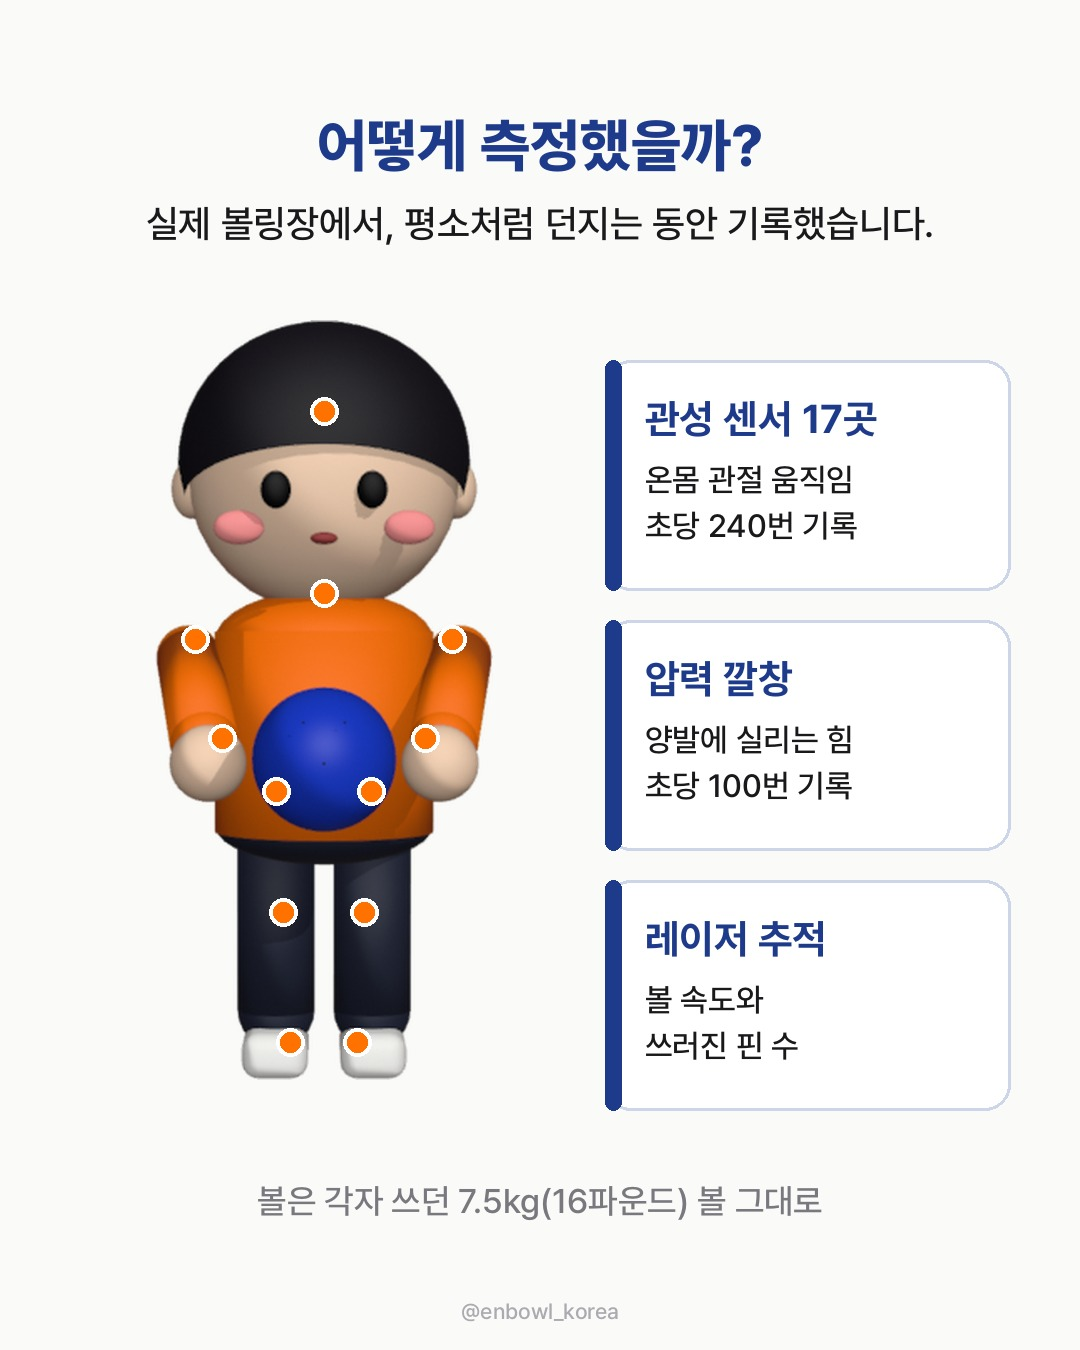
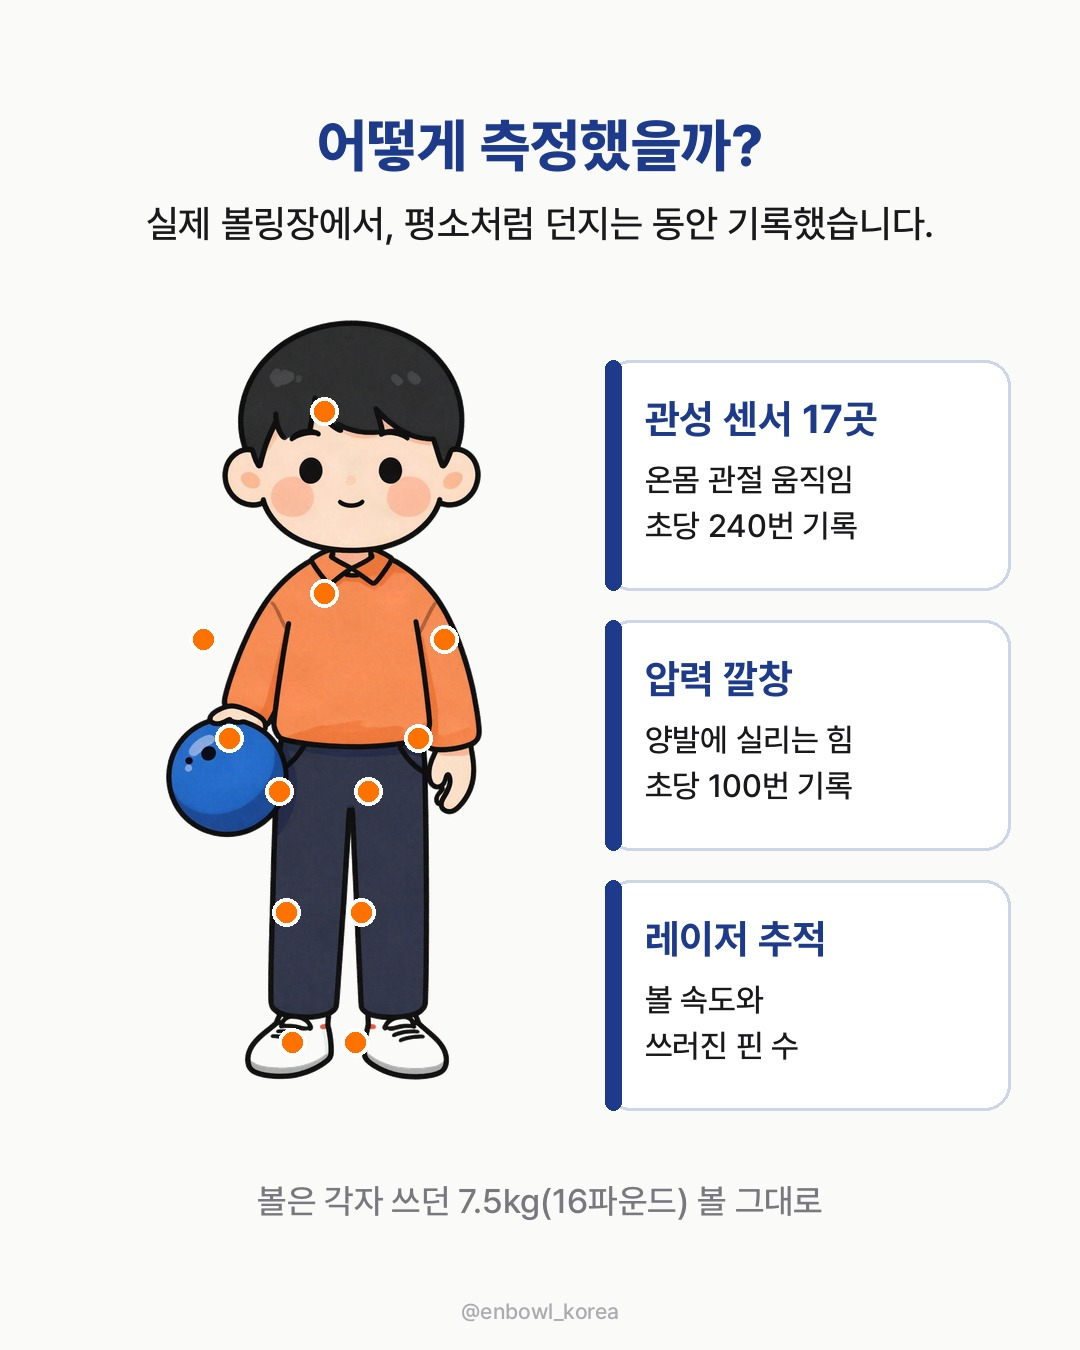
EP.04 카드뉴스 삽화를 Higgsfield 2D 일러스트로 교체
Claude-Session: https://claude.ai/code/session_01HE2U54VkCaFn3aCgJVgDj3

Changed region(s): [[0.1222, 0.2178, 0.4583, 0.8089]]

diff --git a/scripts/cards/ep04_ai.py b/scripts/cards/ep04_ai.py
@@ -1,0 +1,74 @@
+import card2, ep04v2
+from card2 import *
+from PIL import Image, ImageDraw, ImageChops
+import os; AI = os.path.join(os.path.dirname(os.path.abspath(__file__)), "../../assets/ai/")
+
+def rounded(im, r=40):
+    m = Image.new("L", im.size, 0); ImageDraw.Draw(m).rounded_rectangle((0, 0, im.width - 1, im.height - 1), radius=r, fill=255)
+    im = im.convert("RGBA"); im.putalpha(m); return im
+
+def key_white(im):
+    im = im.convert("RGBA"); px = im.load()
+    g = im.convert("L")
+    a = g.point(lambda v: 0 if v > 246 else (255 if v < 230 else int((246 - v) / 16 * 255)))
+    im.putalpha(a); return im
+
+def crop_content(im):
+    bb = im.getchannel("A").getbbox(); return im.crop(bb) if bb else im
+
+MAP = {"think": ("think", "round"), "fresh": ("method", "key"), "cheer": ("cheer", "round"), "tired": ("vs", "round")}
+
+def ai_pose(name, h):
+    src, mode = MAP.get(name, (name, "round"))
+    if name == "think" and h < 400: src, mode = "ok", "round"   # 결과 장의 작은 캐릭터는 OK 포즈
+    im = Image.open(AI + src + ".png")
+    im = crop_content(key_white(im)) if mode == "key" else rounded(im.convert("RGB"), 48)
+    return im.resize((int(im.width * h / im.height), h), Image.LANCZOS)
+
+card2.pose = ai_pose; ep04v2.pose = ai_pose
+
+def vs_ai():
+    img = Image.new("RGB", (W, H), THEME["bg"]); d = ImageDraw.Draw(img)
+    rich_center(d, 120, "같은 선수, 같은 볼, 같은 레인.\n그런데 *1구째*와 *72구째*는 같을까요?", font("SemiBold", 44), 64, THEME["ink"], hl=THEME["navy"])
+    im = rounded(Image.open(AI + "vs.png").convert("RGB"), 48).resize((780, 780), Image.LANCZOS)
+    img.paste(im, (int(W / 2 - 390), 290), im)
+    for x, t in ((W / 2 - 200, "1구째"), (W / 2 + 200, "72구째")):
+        f = font("Bold", 36); tw = d.textlength(t, font=f)
+        d.rounded_rectangle((x - tw / 2 - 22, 1000, x + tw / 2 + 22, 1056), radius=28, fill=THEME["navy"])
+        d.text((x - tw / 2, 1006), t, font=f, fill=(255, 255, 255))
+    rich_center(d, 1110, "던질수록 몸은\n어떻게 달라질까요?", font("ExtraBold", 60), 80, THEME["navy"])
+    return img
+
+def cover_ai():
+    im = Image.open(AI + "cover.png").convert("RGBA")
+    s = W / im.width; im = im.resize((W, int(im.height * s)))
+    top = (im.height - H) // 2; im = im.crop((0, top, W, top + H))
+    im.save("/tmp/cover_ai_bg.png")
+    return cover("/tmp/cover_ai_bg.png", "국가대표도 *72구째*엔\n볼이 느려질까?", "")
+
+if __name__ == "__main__":
+    import os
+    # cover() 는 9:16 기준 크롭을 하므로, 4:5 이미지는 그대로 쓰도록 우회
+    def cover_direct(path, text, sub):
+        img = Image.open(path).convert("RGBA")
+        grad = Image.new("L", (1, H)); [grad.putpixel((0, y), int(255 * max(0, (y - H * 0.5) / (H * 0.5)) ** 1.3 * 0.9)) for y in range(H)]
+        shade = Image.new("RGBA", (W, H), (10, 12, 20, 255)); shade.putalpha(grad.resize((W, H))); img.alpha_composite(shade)
+        d = ImageDraw.Draw(img); f = font("ExtraBold", 66); y = H - 270
+        d.text((W / 2 - d.textlength("@enbowl_korea", font=font("Medium", 26)) / 2, H - 330), "@enbowl_korea", font=font("Medium", 26), fill=(220, 220, 225))
+        for line in text.split("\n"):
+            segs = [(p, i % 2 == 1) for i, p in enumerate(line.split("*")) if p]
+            w = sum(d.textlength(p, font=f) for p, _ in segs); x = (W - w) / 2
+            for p, h in segs:
+                d.text((x, y), p, font=f, fill=THEME["accent"] if h else (255, 255, 255), stroke_width=2, stroke_fill=(10, 10, 14)); x += d.textlength(p, font=f)
+            y += 86
+        return img.convert("RGB")
+    im = Image.open(AI + "cover.png").convert("RGBA"); s = W / im.width; im = im.resize((W, int(im.height * s)))
+    top = (im.height - H) // 2; im.crop((0, top, W, top + H)).save("/tmp/cover_ai_bg.png")
+    os.makedirs("ep04_ai", exist_ok=True)
+    slides = [cover_direct("/tmp/cover_ai_bg.png", "국가대표도 *72구째*엔\n볼이 느려질까?", ""), vs_ai(), ep04v2.s_question(),
+              study_slide(), ep04v2.s_method(), ep04v2.s_chart(), ep04v2.s_hands(), ep04v2.s_same(), ep04v2.s_why(), ep04v2.s_summary()]
+    for i, s_ in enumerate(slides, 1): s_.save(f"ep04_ai/{i:02d}.jpg", quality=92)
+    ims = [Image.open(f"ep04_ai/{i:02d}.jpg").resize((324, 405)) for i in range(1, 11)]
+    sh = Image.new("RGB", (334 * 5 + 10, 415 * 2 + 10), "white")
+    for i, im in enumerate(ims): sh.paste(im, (10 + (i % 5) * 334, 10 + (i // 5) * 415))
+    sh.save("ep04_ai_sheet.jpg", quality=90)
